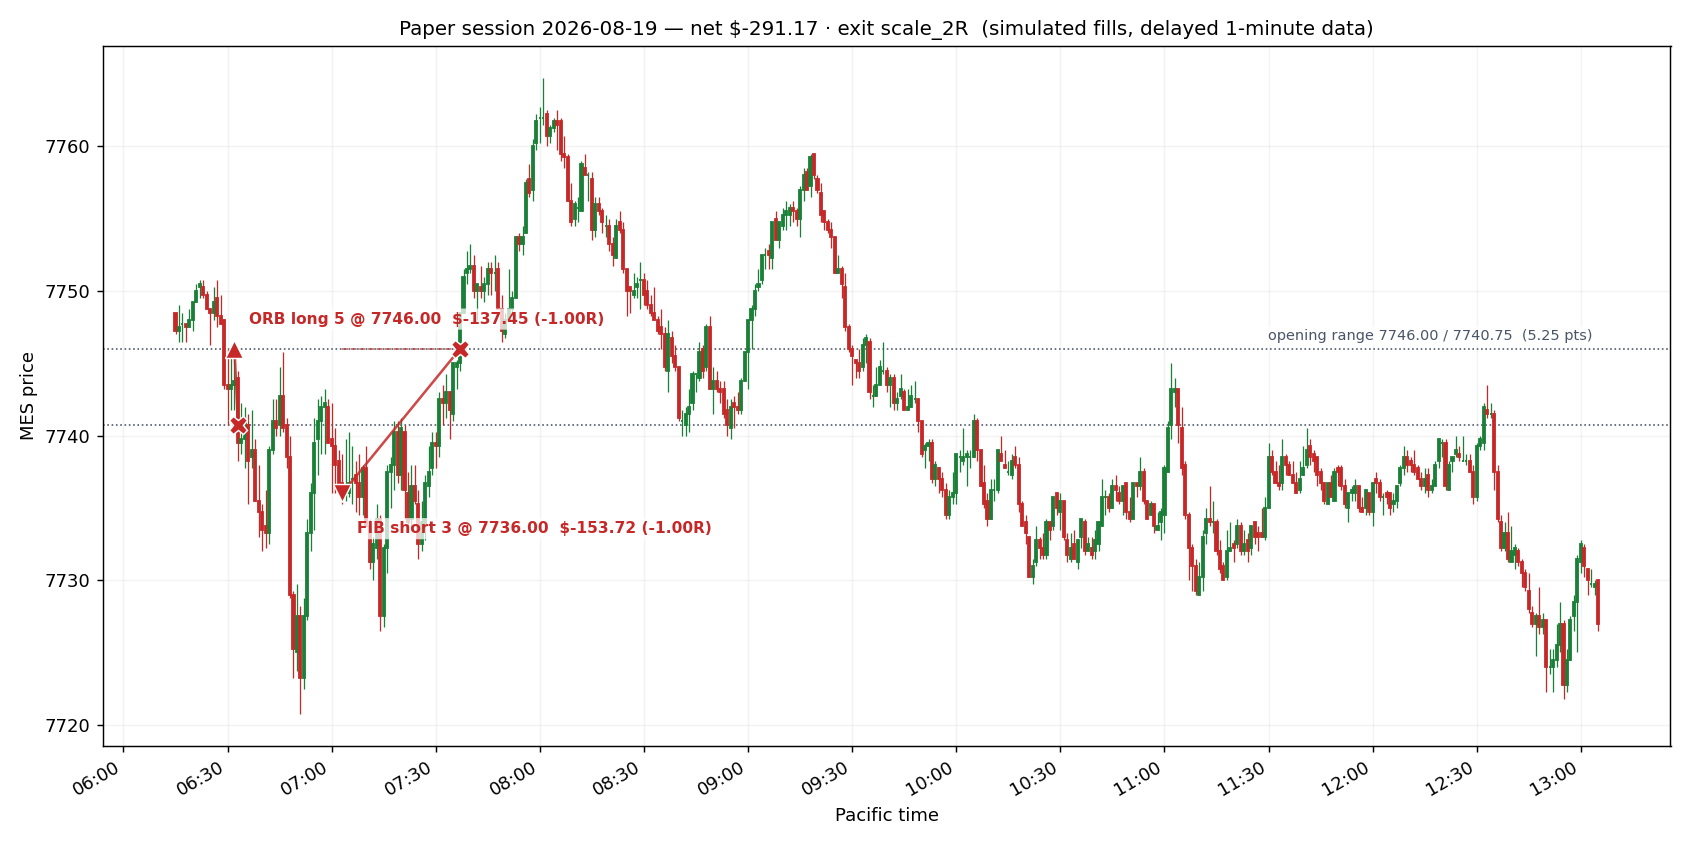
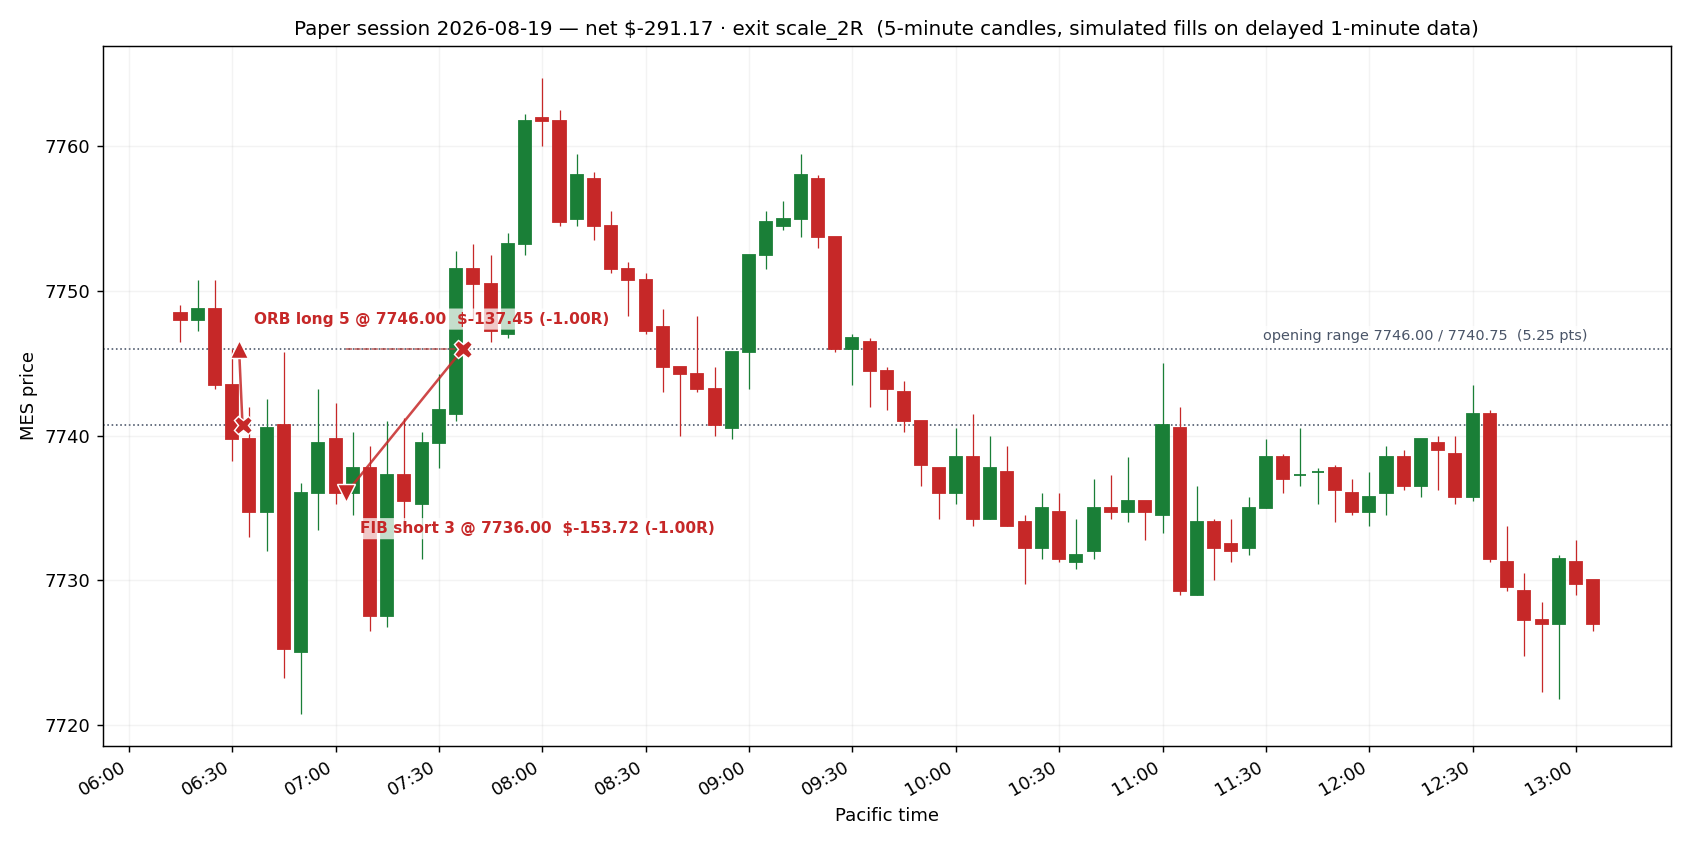
Draw the session chart on 5-minute candles

diff --git a/paper_engine.py b/paper_engine.py
@@ -105,7 +105,7 @@ class PaperEngine:
                  runner_pct: float = 0.10, stop_buffer: float = 0.0,
                  orb_reentry: bool = False, max_contracts: int = 0,
                  min_range_pts: float = 0.0, with_overnight: bool = False,
-                 cap_orb_stop: bool = False):
+                 cap_orb_stop: bool = False, chart_minutes: int = chart.CANDLE_MINUTES):
         self.cfg = cfg
         self.or_minutes = or_minutes
         self.exit_rule = exit_rule
@@ -120,6 +120,7 @@ class PaperEngine:
         self.min_range_pts = min_range_pts
         self.with_overnight = with_overnight
         self.cap_orb_stop = cap_orb_stop
+        self.chart_minutes = chart_minutes
         self.verbose = verbose
         self.write_live = write_live
         self.pos: Position | None = None
@@ -173,7 +174,7 @@ class PaperEngine:
             else:
                 s.ended_by = "no opening range break inside the session"
         self.completed.append(self.session)
-        write_report(self.cfg, self.session, self.exit_rule)
+        write_report(self.cfg, self.session, self.exit_rule, self.chart_minutes)
 
     # ---------------------------------------------------------------- the loop
     def on_bar(self, bar: Bar) -> None:
@@ -559,7 +560,8 @@ def write_state(cfg: dict, eng: PaperEngine, bar: Bar) -> None:
     }, indent=2, default=str))
 
 
-def write_report(cfg: dict, s: Session, exit_rule: str = "") -> Path:
+def write_report(cfg: dict, s: Session, exit_rule: str = "",
+                 chart_minutes: int = chart.CANDLE_MINUTES) -> Path:
     """The end-of-session summary: what happened, and what it means for a payout."""
     REPORT_DIR.mkdir(parents=True, exist_ok=True)
     with rules.db() as conn:
@@ -605,10 +607,12 @@ def write_report(cfg: dict, s: Session, exit_rule: str = "") -> Path:
     else:
         lines += ["## Trades", "", "None. A day with no setup is a normal day, not a failure.", ""]
 
-    chart_path = chart.write_chart(s, REPORT_DIR / f"chart-{s.date}.png", exit_rule)
+    chart_path = chart.write_chart(s, REPORT_DIR / f"chart-{s.date}.png", exit_rule,
+                                   chart_minutes)
     if chart_path is not None:
         lines += ["## The day on a chart", "",
-                  f"![Candlesticks for {s.date} with every trade marked]({chart_path.name})",
+                  f"![{chart_minutes}-minute candles for {s.date} with every trade marked]"
+                  f"({chart_path.name})",
                   "",
                   "Entry is the triangle, exit the cross, the dashed line is the stop that was "
                   "working while the trade was on; the dotted levels are the opening range.",
@@ -800,6 +804,9 @@ def main() -> None:
     ap.add_argument("--cap-orb-stop", action="store_true",
                     help="clamp the ORB stop to max_stop_points instead of skipping the "
                          "trade when the opening range is wider than the cap")
+    ap.add_argument("--chart-minutes", type=int, default=chart.CANDLE_MINUTES,
+                    help="candle size for the session chart in minutes (the engine still "
+                         "trades the 1-minute bars)")
     ap.add_argument("--reset", action="store_true", help="wipe the paper journal first")
     ap.add_argument("--live-view", action="store_true",
                     help="update paper_state.json every bar so /paper can be watched")
@@ -818,7 +825,7 @@ def main() -> None:
                       runner_pct=args.runner_pct, stop_buffer=args.stop_buffer,
                       orb_reentry=args.orb_reentry, max_contracts=args.max_contracts,
                       min_range_pts=args.min_range_pts, with_overnight=args.with_overnight,
-                      cap_orb_stop=args.cap_orb_stop)
+                      cap_orb_stop=args.cap_orb_stop, chart_minutes=args.chart_minutes)
     lim = rules.limits(cfg)
     print(f"Paper engine · {lim.account} {lim.instrument} · {args.or_minutes}-min opening range "
           f"· exit {args.exit_rule}\nRisk ${lim.risk_per_trade:,.0f}/trade · target "

diff --git a/chart.py b/chart.py
@@ -1,11 +1,15 @@
 """Candlestick chart of one paper session: the day's bars, the opening range, and every
 trade the rules took, drawn on Jonathan's clock (Pacific).
 
+The engine works on 1-minute bars; the chart aggregates them into 5-minute candles so the
+entries and exits are readable. The markers stay on their exact minute either way.
+
 Written by `paper_engine.py` next to the session report. Pure picture — it reads what the
 engine already recorded and never touches the journal.
 """
 from __future__ import annotations
 
+from dataclasses import dataclass
 from datetime import datetime, time
 from pathlib import Path
 from zoneinfo import ZoneInfo
@@ -21,12 +25,45 @@ LEVEL = "#4a5568"
 # window are dropped unless that would leave nothing to draw.
 WINDOW = (time(6, 15), time(13, 5))
 
+CANDLE_MINUTES = 5
+
+
+@dataclass
+class _Candle:
+    """An aggregated candle. Same shape as the engine's `Bar`, built from several of them."""
+    ts: datetime
+    open: float
+    high: float
+    low: float
+    close: float
+
 
 def _pt(ts: datetime) -> datetime:
     return ts.astimezone(PT)
 
 
-def write_chart(session, path: Path, exit_rule: str = "") -> Path | None:
+def aggregate(bars: list, minutes: int) -> list:
+    """1-minute bars into `minutes`-minute candles, on clock boundaries (06:30, 06:35, ...)."""
+    if minutes <= 1:
+        return list(bars)
+    out: list = []
+    bucket_start = None
+    for b in bars:
+        t = _pt(b.ts)
+        start = t.replace(minute=t.minute - t.minute % minutes, second=0, microsecond=0)
+        if bucket_start != start:
+            bucket_start = start
+            out.append(_Candle(start, b.open, b.high, b.low, b.close))
+        else:
+            c = out[-1]
+            c.high = max(c.high, b.high)
+            c.low = min(c.low, b.low)
+            c.close = b.close
+    return out
+
+
+def write_chart(session, path: Path, exit_rule: str = "",
+                minutes: int = CANDLE_MINUTES) -> Path | None:
     """Draw the session and save a PNG. Returns None if matplotlib is not installed."""
     try:
         import matplotlib
@@ -41,8 +78,9 @@ def write_chart(session, path: Path, exit_rule: str = "") -> Path | None:
     if not bars:
         return None
 
+    bars = aggregate(bars, minutes)
     times = [_pt(b.ts) for b in bars]
-    width = (1.0 / (24 * 60)) * 0.6          # a 1-minute candle body, in day units
+    width = (minutes / (24 * 60)) * 0.7      # candle body, in day units
 
     fig, ax = plt.subplots(figsize=(13, 6.5))
     for b, t in zip(bars, times):
@@ -96,7 +134,8 @@ def write_chart(session, path: Path, exit_rule: str = "") -> Path | None:
     title = f"Paper session {session.date} — net ${net:+,.2f}"
     if exit_rule:
         title += f" · exit {exit_rule}"
-    ax.set_title(title + "  (simulated fills, delayed 1-minute data)", fontsize=11)
+    ax.set_title(f"{title}  ({minutes}-minute candles, simulated fills on delayed "
+                 f"1-minute data)", fontsize=11)
     ax.set_ylabel("MES price")
     ax.set_xlabel("Pacific time")
     ax.xaxis.set_major_formatter(mdates.DateFormatter("%H:%M", tz=PT))

diff --git a/README.md b/README.md
@@ -122,11 +122,16 @@ entry, stop, exit, R and net P&L; the setups the rules refused and why; which ru
 day; whether the day cleared Apex's $300 net minimum; and the running count of qualifying days
 and profit still needed for a payout. `reports/summary.md` stacks every session into one table.
 
-Alongside it goes `reports/chart-YYYY-MM-DD.png`: the session's 1-minute candles on Pacific
-time with the opening range, each entry (triangle), each exit (cross), the stop that was
-working while the trade was on (dashed), and the trade's net P&L and R. Drawn by `chart.py`,
-which needs `matplotlib` — without it the report is written as before, just without the
-picture. Bars outside 06:15–13:05 PT are left out so the trading day fills the frame.
+Alongside it goes `reports/chart-YYYY-MM-DD.png`: the session on Pacific time with the opening
+range, each entry (triangle), each exit (cross), the stop that was working while the trade was
+on (dashed), and the trade's net P&L and R. Drawn by `chart.py`, which needs `matplotlib` —
+without it the report is written as before, just without the picture. Bars outside
+06:15–13:05 PT are left out so the trading day fills the frame.
+
+The engine trades the 1-minute bars; the chart aggregates them into **5-minute candles**,
+because a 400-candle day is unreadable at the entries. `--chart-minutes` changes the candle
+size (`--chart-minutes 1` for the raw bars) and never changes a trade — the markers sit on the
+exact minute either way.
 
 The exit rule is a flag, and it changes everything:
 

diff --git a/reports/session-2026-08-19.md b/reports/session-2026-08-19.md
@@ -17,7 +17,7 @@
 
 ## The day on a chart
 
-![Candlesticks for 2026-08-19 with every trade marked](chart-2026-08-19.png)
+![5-minute candles for 2026-08-19 with every trade marked](chart-2026-08-19.png)
 
 Entry is the triangle, exit the cross, the dashed line is the stop that was working while the trade was on; the dotted levels are the opening range.
 

diff --git a/reports/shadow/session-2026-08-19.md b/reports/shadow/session-2026-08-19.md
@@ -17,7 +17,7 @@
 
 ## The day on a chart
 
-![Candlesticks for 2026-08-19 with every trade marked](chart-2026-08-19.png)
+![5-minute candles for 2026-08-19 with every trade marked](chart-2026-08-19.png)
 
 Entry is the triangle, exit the cross, the dashed line is the stop that was working while the trade was on; the dotted levels are the opening range.
 
